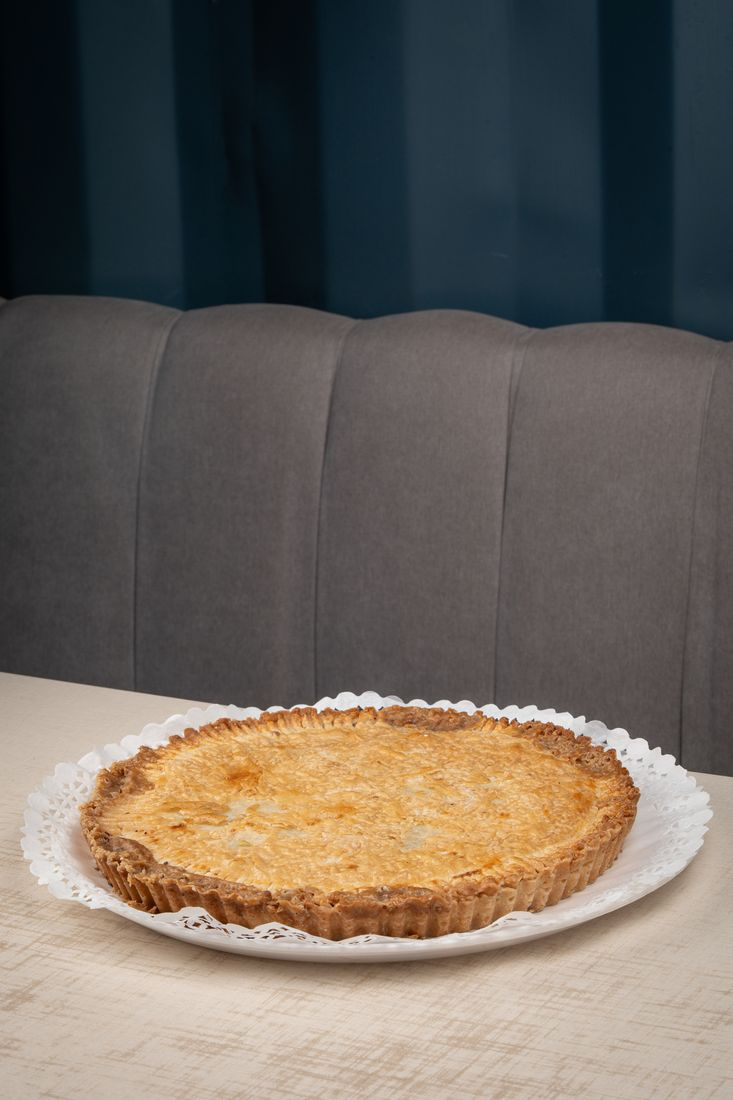
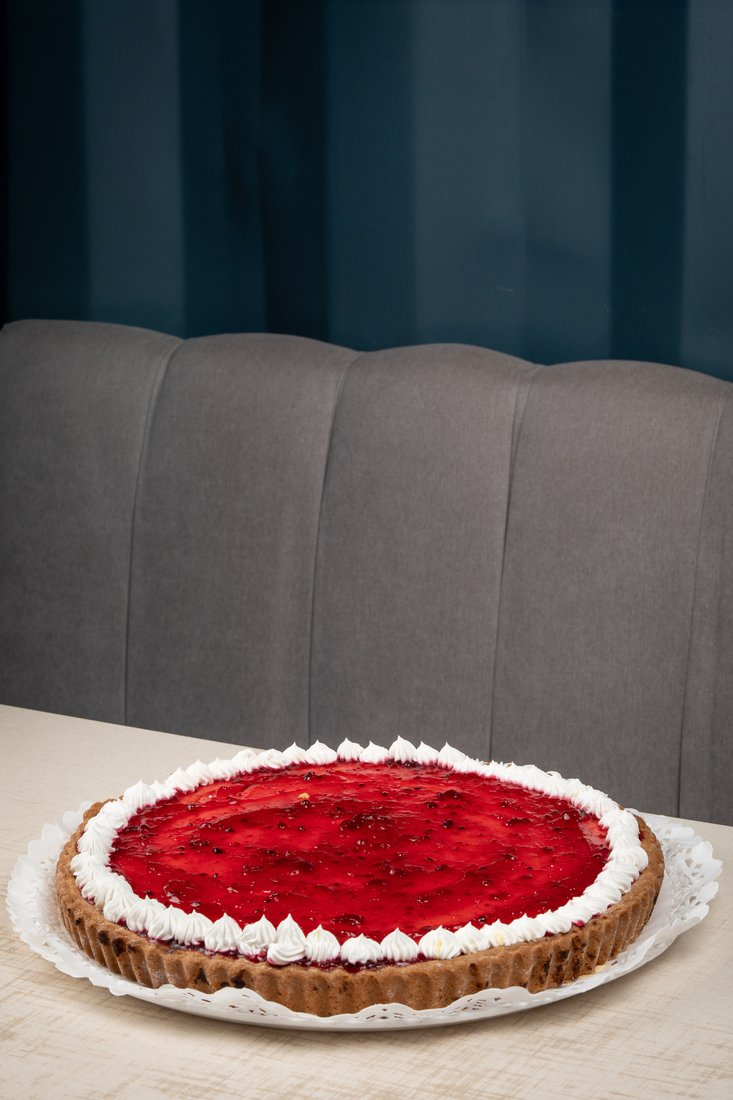
Corregir fotos/descripciones de Cayote y Ricota, achicar vidriera 30%
- cayote.jpg tenía una foto de otra torta sin relación; se reemplaza
  por la foto real (queso crema, dulce de cayote y nueces picadas),
  ajustando relleno/cobertura y el dato de la ficha.
- ricota.jpg mostraba la versión horneada simple; se reemplaza por
  la que realmente se vende, con frutos rojos y chantilly.
- La vidriera seguía mostrando la foto muy grande/ajustada; se baja
  la escala base del Ken Burns de 1.0 a 0.7 (30% más chica) sobre el
  mismo recorte y movimiento ya ajustados antes.

diff --git a/carta.html b/carta.html
@@ -349,7 +349,7 @@
     opacity:0; transition: opacity 1.15s ease;
   }
   .attract-img.is-live{ opacity:1; animation: kenburns 9s linear both; }
-  @keyframes kenburns{ from{transform:scale(1.0)} to{transform:scale(1.06)} }
+  @keyframes kenburns{ from{transform:scale(0.7)} to{transform:scale(0.742)} }
   .attract-veil{
     position:absolute; inset:0;
     background: linear-gradient(180deg, rgba(30,16,10,0.55) 0%, rgba(30,16,10,0.05) 32%, rgba(30,16,10,0.86) 100%);
@@ -670,7 +670,7 @@
           <div class="spec">
             <div class="spec-row"><span class="spec-label">Masa</span><span class="spec-text">Masa quebrada.</span></div>
             <div class="spec-row"><span class="spec-label">Relleno</span><span class="spec-text">Ricota, huevo, esencia de vainilla y ralladura de limón.</span></div>
-            <div class="spec-row"><span class="spec-label">Cobertura</span><span class="spec-text">Terminación dorada al horno.</span></div>
+            <div class="spec-row"><span class="spec-label">Cobertura</span><span class="spec-text">Mermelada de frutos rojos y crema chantilly.</span></div>
           </div>
         </article>
 
@@ -711,8 +711,8 @@
           <h3>Cayote</h3>
           <div class="spec">
             <div class="spec-row"><span class="spec-label">Masa</span><span class="spec-text">Masa quebrada.</span></div>
-            <div class="spec-row"><span class="spec-label">Relleno</span><span class="spec-text">Dulce de leche repostero y crema pastelera.</span></div>
-            <div class="spec-row"><span class="spec-label">Cobertura</span><span class="spec-text">Caramelo acaramelado y crocante.</span></div>
+            <div class="spec-row"><span class="spec-label">Relleno</span><span class="spec-text">Queso crema y dulce de cayote.</span></div>
+            <div class="spec-row"><span class="spec-label">Cobertura</span><span class="spec-text">Nueces picadas.</span></div>
           </div>
         </article>
 
@@ -806,7 +806,7 @@
   })();
 
   /* ====== datos de maridaje y curiosidades ====== */
-  var EXTRA = {"Primavera": {"m": "Un capuchino suave o un té de frutos rojos.", "d": "Cambia con la temporada: se arma con la fruta que hay en el momento."}, "Selva Negra": {"m": "Un espresso doble, para equilibrar el dulce.", "d": "Viene de la Selva Negra alemana, tierra de cerezas y kirsch."}, "Bombón": {"m": "Un submarino bien caliente.", "d": "Todo chocolate, de la masa al baño espejo."}, "Moka": {"m": "Un cortado, o un vaso de leche fría.", "d": "Moka es el encuentro del café con la crema. El nombre viene del puerto de Moca, en Yemen."}, "María Luisa": {"m": "Café con leche, el clásico de la merienda.", "d": "Capas finitas de bizcochuelo, dulce de leche entre cada una y merengue flameado arriba."}, "Pastafrola": {"m": "Mate cocido o un té negro.", "d": "El enrejado es su marca registrada: llegó al país de la mano de los inmigrantes italianos."}, "Lemon Pie": {"m": "Un té verde o un capuchino.", "d": "El merengue italiano se monta con almíbar caliente. Por eso queda firme y brillante."}, "Cabsha": {"m": "Un espresso corto.", "d": "Un clásico bien argentino: dulce de leche, nueces y merengue tostado."}, "Maracuyá": {"m": "Limonada con menta o un té helado.", "d": "La fruta de la pasión aporta la acidez justa para cortar el dulce."}, "Coco": {"m": "Café con leche o un cortado.", "d": "El coco tostado por arriba es lo que le da todo el aroma."}, "Manzana": {"m": "Té con canela o un chocolate caliente.", "d": "Manzana y canela, la dupla que nunca falla."}, "Nuez": {"m": "Un espresso o un submarino.", "d": "Nueces caramelizadas adentro y confitadas arriba, para que crujan."}, "Ricota": {"m": "Café con leche o mate cocido.", "d": "Sin harina en el relleno: ricota, huevo y ralladura de limón."}, "Oreo": {"m": "Un submarino, o leche bien fría.", "d": "La base es galletita pura, sin masa. Por eso cruje."}, "Mousse de Frutilla": {"m": "Limonada o un té helado.", "d": "Mousse de frutilla natural, con frutillas frescas arriba."}, "Cayote": {"m": "Un cortado.", "d": "El caramelo va arriba de todo y cruje al primer bocado."}};
+  var EXTRA = {"Primavera": {"m": "Un capuchino suave o un té de frutos rojos.", "d": "Cambia con la temporada: se arma con la fruta que hay en el momento."}, "Selva Negra": {"m": "Un espresso doble, para equilibrar el dulce.", "d": "Viene de la Selva Negra alemana, tierra de cerezas y kirsch."}, "Bombón": {"m": "Un submarino bien caliente.", "d": "Todo chocolate, de la masa al baño espejo."}, "Moka": {"m": "Un cortado, o un vaso de leche fría.", "d": "Moka es el encuentro del café con la crema. El nombre viene del puerto de Moca, en Yemen."}, "María Luisa": {"m": "Café con leche, el clásico de la merienda.", "d": "Capas finitas de bizcochuelo, dulce de leche entre cada una y merengue flameado arriba."}, "Pastafrola": {"m": "Mate cocido o un té negro.", "d": "El enrejado es su marca registrada: llegó al país de la mano de los inmigrantes italianos."}, "Lemon Pie": {"m": "Un té verde o un capuchino.", "d": "El merengue italiano se monta con almíbar caliente. Por eso queda firme y brillante."}, "Cabsha": {"m": "Un espresso corto.", "d": "Un clásico bien argentino: dulce de leche, nueces y merengue tostado."}, "Maracuyá": {"m": "Limonada con menta o un té helado.", "d": "La fruta de la pasión aporta la acidez justa para cortar el dulce."}, "Coco": {"m": "Café con leche o un cortado.", "d": "El coco tostado por arriba es lo que le da todo el aroma."}, "Manzana": {"m": "Té con canela o un chocolate caliente.", "d": "Manzana y canela, la dupla que nunca falla."}, "Nuez": {"m": "Un espresso o un submarino.", "d": "Nueces caramelizadas adentro y confitadas arriba, para que crujan."}, "Ricota": {"m": "Café con leche o mate cocido.", "d": "Ricota horneada sin harina, cubierta con mermelada de frutos rojos y chantilly."}, "Oreo": {"m": "Un submarino, o leche bien fría.", "d": "La base es galletita pura, sin masa. Por eso cruje."}, "Mousse de Frutilla": {"m": "Limonada o un té helado.", "d": "Mousse de frutilla natural, con frutillas frescas arriba."}, "Cayote": {"m": "Un cortado.", "d": "Queso crema y dulce de cayote casero, con nueces picadas arriba."}};
 
   var cards = Array.prototype.slice.call(document.querySelectorAll('.card'));
 
